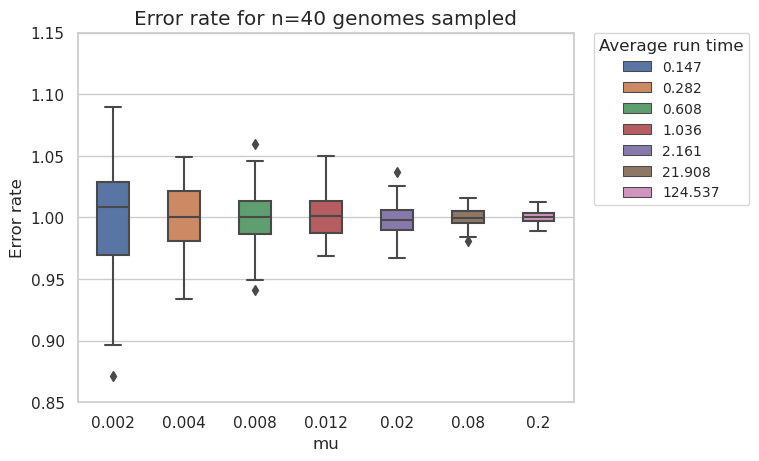
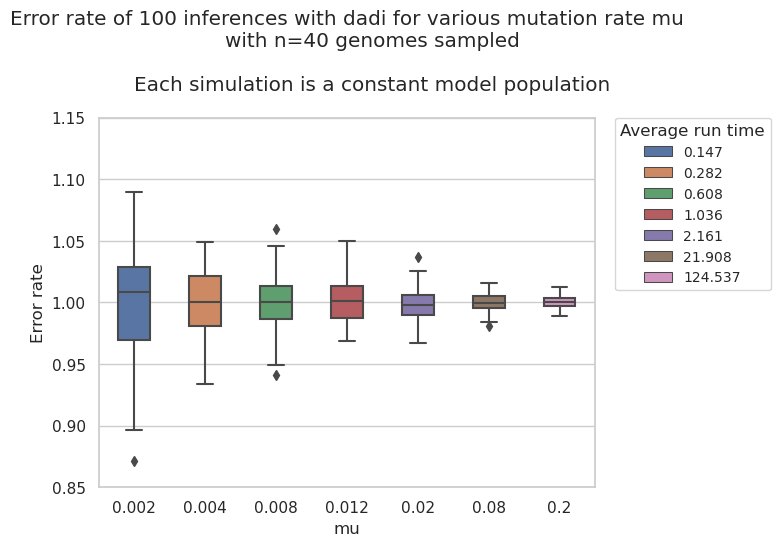
plot & migale tache

diff --git a/sei/sei_migale.py b/sei/sei_migale.py
@@ -190,7 +190,7 @@ def likelihood_ratio_test(tau, kappa, msprime_model, dadi_model, control_model, 
           - Model0: log-likelihood for the model with less parameters
           - Model1: nbest log-likelihood for the model with more parameters
     """
-    mu, sample = 8e-2, 20
+    mu, sample = 8e-5, 20  # 8e-2
     ll_list, ll_ratio = {"Model0": [], "Model1": []}, []
 
     # Grid point for the extrapolation
@@ -255,19 +255,16 @@ def inference(msprime_model, dadi_model, control_model, optimization, scale):
     optimization
         parameter to optimize - (kappa), (tau), (kappa, tau), etc.
     """
-    col = ["Tau", "Kappa", "Positive hit"]
+    col = ["Tau", "Kappa", "Positive hit", "Model0 ll", "Model1 ll"]
     data = pd.DataFrame(columns=col)
 
     if optimization == "tau":
-        print("Optimization of {} for {}".format(optimization, dadi_model.__name__))
-
         kappa, tau = 10, np.float_power(10, scale[0])  # Kappa fixed
-        print("Simulation: kappa {} & tau {}".format(kappa, tau))
 
         lrt, ll_list = likelihood_ratio_test(
             tau, kappa, msprime_model, dadi_model, control_model, optimization,
             nb_simu=1000, dof=1
-        )  # 1000 simulations
+        )
         row = {
             "Tau": tau, "Kappa": kappa, "Positive hit": Counter(lrt)[1],
             "Model0 ll": ll_list["Model0"], "Model1 ll": ll_list["Model1"]
@@ -275,15 +272,12 @@ def inference(msprime_model, dadi_model, control_model, optimization, scale):
         data = data.append(row, ignore_index=True)
 
     elif optimization == "kappa":
-        print("Optimization of {} for {}".format(optimization, dadi_model.__name__))
-
         kappa, tau = np.float_power(10, scale[0]), 1.0  # Tau fixed
-        print("Simulation: kappa {} & tau {}".format(kappa, tau), end="\r")
 
         lrt, ll_list = likelihood_ratio_test(
             tau, kappa, msprime_model, dadi_model, control_model, optimization,
             nb_simu=1000, dof=1
-        )  # 1000 simulations
+        )
         row = {
             "Tau": tau, "Kappa": kappa, "Positive hit": Counter(lrt)[1],
             "Model0 ll": ll_list["Model0"], "Model1 ll": ll_list["Model1"]
@@ -291,12 +285,7 @@ def inference(msprime_model, dadi_model, control_model, optimization, scale):
         data = data.append(row, ignore_index=True)
 
     else:
-        print("Optimization of {} for {}".format(optimization, dadi_model.__name__))
-        # for t_scale in np.arange(-3, 1.1, 0.1):
-        #     for k_scale in np.arange(-2, 1.6, 0.1):
-        #         pass
         kappa, tau = np.float_power(10, scale[1]), np.float_power(10, scale[0])
-        print("Simulation: kappa {} & tau {}".format(kappa, tau), end="\r")
 
         lrt, ll_list = likelihood_ratio_test(
             tau, kappa, msprime_model, dadi_model, control_model, optimization,
@@ -311,7 +300,7 @@ def inference(msprime_model, dadi_model, control_model, optimization, scale):
     # Export data to csv file
     path_data = "/home/pimbert/work/Species_evolution_inference/Data/"
     data.to_csv("{}Optimization_{}/opt-tau={}_kappa={}.csv"
-                .format(path_data, optimization, tau, kappa), sep='\t', index=False)
+                .format(path_data, optimization, tau, kappa), index=False)
 
 
 ######################################################################
@@ -336,7 +325,10 @@ if __name__ == "__main__":
         elif args.param == 'kappa':
             scale = [np.arange(-2.5, 1.6, 0.1)[int(args.value[0])-1]]
         else:
-            scale = [np.arange(-3, 1.1, 0.1)[int(args.value[0])-1], np.arange(-2.5, 1.6, 0.1)[int(args.value[1])-1]]
+            scale = [
+                np.arange(-3, 1.1, 0.1)[int(args.value[0])-1],
+                np.arange(-2.5, 1.6, 0.1)[int(args.value[1])-1]
+            ]
         inference(
             msprime_model=ms.sudden_decline_model, dadi_model=dadi.sudden_decline_model,
             control_model=dadi.constant_model, optimization=args.param, scale=scale

diff --git a/sei/sei.py b/sei/sei.py
@@ -81,7 +81,7 @@ def sfs_verification():
     plot.plot_sfs(
         sfs=[sfs_cst, sfs_theorique, sfs_declin, sfs_croissance],
         label=["Constant", "Theoretical", "Declin", "Growth"],
-        color=["blue", "orange","red", "green"],
+        color=["tab:blue", "tab:orange","tab:red", "tab:green"],
         title="Unfold SFS for various scenarios"
     )
 
@@ -339,7 +339,7 @@ def inference(msprime_model, dadi_model, control_model, optimization, scale):
     optimization
         parameter to optimize - (kappa), (tau), (kappa, tau), etc.
     """
-    col = ["Tau", "Kappa", "Positive hit"]
+    col = ["Tau", "Kappa", "Positive hit", "Model0 ll", "Model1 ll"]
     data = pd.DataFrame(columns=col)
 
     if optimization == "tau":
@@ -376,9 +376,7 @@ def inference(msprime_model, dadi_model, control_model, optimization, scale):
 
     else:
         print("Optimization of {} for {}".format(optimization, dadi_model.__name__))
-        # for t_scale in np.arange(-3, 1.1, 0.1):
-        #     for k_scale in np.arange(-2, 1.6, 0.1):
-        #         pass
+
         kappa, tau = np.float_power(10, scale[1]), np.float_power(10, scale[0])
         print("Simulation: kappa {} & tau {}".format(kappa, tau), end="\r")
 
@@ -395,7 +393,7 @@ def inference(msprime_model, dadi_model, control_model, optimization, scale):
     #plot.plot_lrt(data)
     # Export data to csv file
     data.to_csv("./Data/Optimization_{}/opt-tau={}_kappa={}.csv"
-                .format(optimization, tau, kappa), sep='\t', index=False)
+                .format(optimization, tau, kappa), index=False)
 
 
 ######################################################################
@@ -413,16 +411,47 @@ def main():
 
     if args.analyse == 'opt':
         dadi_params_optimisation(args.number)
+
     elif args.analyse == 'lrt':
         inference(
             msprime_model=ms.sudden_decline_model, dadi_model=dadi.sudden_decline_model,
             control_model=dadi.constant_model, optimization=args.param, scale=args.value
         )
+
     elif args.analyse == 'er':
         for sample in [10, 20, 40, 60, 100]:
             plot.plot_error_rate(sample)
-            plot.plot_sfs_from_dadi(sample, name="SFS-{}".format(sample))
 
+            # SFS - constant model
+            sfs_cst = f.export_sfs(path="./Data/Error_rate/", name="SFS-{}".format(sample))
+
+            # Theoretical SFS for any constant population
+            sfs_theorique = [0] * (sample - 1)
+            for i in range(len(sfs_theorique)):
+                sfs_theorique[i] = 1 / (i+1)
+
+            # Plot
+            plot.plot_sfs(
+                sfs=[sfs_cst, sfs_theorique],
+                label=["Constant", "Theoretical"],
+                color=["tab:blue", "tab:orange"],
+                title="SFS", path_figure="./Figures/Error_rate/", name="sfs_{}".format(sample)
+            )
+
+        optimization = ["tau-kappa"]
+        for opt in optimization:
+            path_data = "./Data/Optimization_{}/".format(opt)
+            files = os.listdir(path_data)
+
+            # Pandas DataFrame
+            col = ["Tau", "Kappa", "Positive hit", "Model0 ll", "Model1 ll"]
+            data = pd.DataFrame(columns=col)
+
+            # Append value to data
+            for fichier in files:
+                data = data.append(
+                    pd.read_csv("{}{}".format(path_data, fichier), sep="\t"), ignore_index=True
+                )
 
 if __name__ == "__main__":
     warnings.filterwarnings('ignore')

diff --git a/sei/graphics/plot.py b/sei/graphics/plot.py
@@ -26,7 +26,7 @@ def normalization(data):
 # Plot Site Frequency Spectrum                                       #
 ######################################################################
 
-def plot_sfs(sfs, label, color, title):
+def plot_sfs(sfs, label, color, title, path_figure="./Figures/", name="sfs"):
     """
     Graphic representation of Site Frequency Spectrum (SFS), save to the folder ./Figures.
 
@@ -38,6 +38,8 @@ def plot_sfs(sfs, label, color, title):
         the label of each sfs
     color: list
         the color of each curve
+    style: list
+        the linestyle
     title: string
         title of the plot
     """
@@ -62,7 +64,7 @@ def plot_sfs(sfs, label, color, title):
 
     # Title + save plot to the folder ./Figures
     plt.title(title, fontsize="xx-large")
-    plt.savefig("./Figures/sfs")
+    plt.savefig("{}{}.png".format(path_figure, name))
     plt.clf()
 
 
@@ -176,15 +178,15 @@ def plot_error_rate(sample):
               borderaxespad=0., title="Average run time")
 
     # Title + save plot to folder ./Figures
-    plt.title("Error rate for n={} genomes sampled".format(sample), fontsize="large")
+    title = \
+        """Error rate of 100 inferences with dadi for various mutation rate mu
+        with n={} genomes sampled\n
+        Each simulation is a constant model population
+        """.format(sample)
+
+    plt.title(title, fontsize="large", loc="center", wrap=True)
     plt.savefig("./Figures/Error_rate/error-rate-{}".format(sample), bbox_inches="tight")
     plt.clf()
-
-
-def plot_sfs_from_dadi(sample, path="./Data/", name="SFS"):
-    # Export SFS into list
-    data = f.export_sfs(path, name)
-    # print(data)
 
 
 ######################################################################
